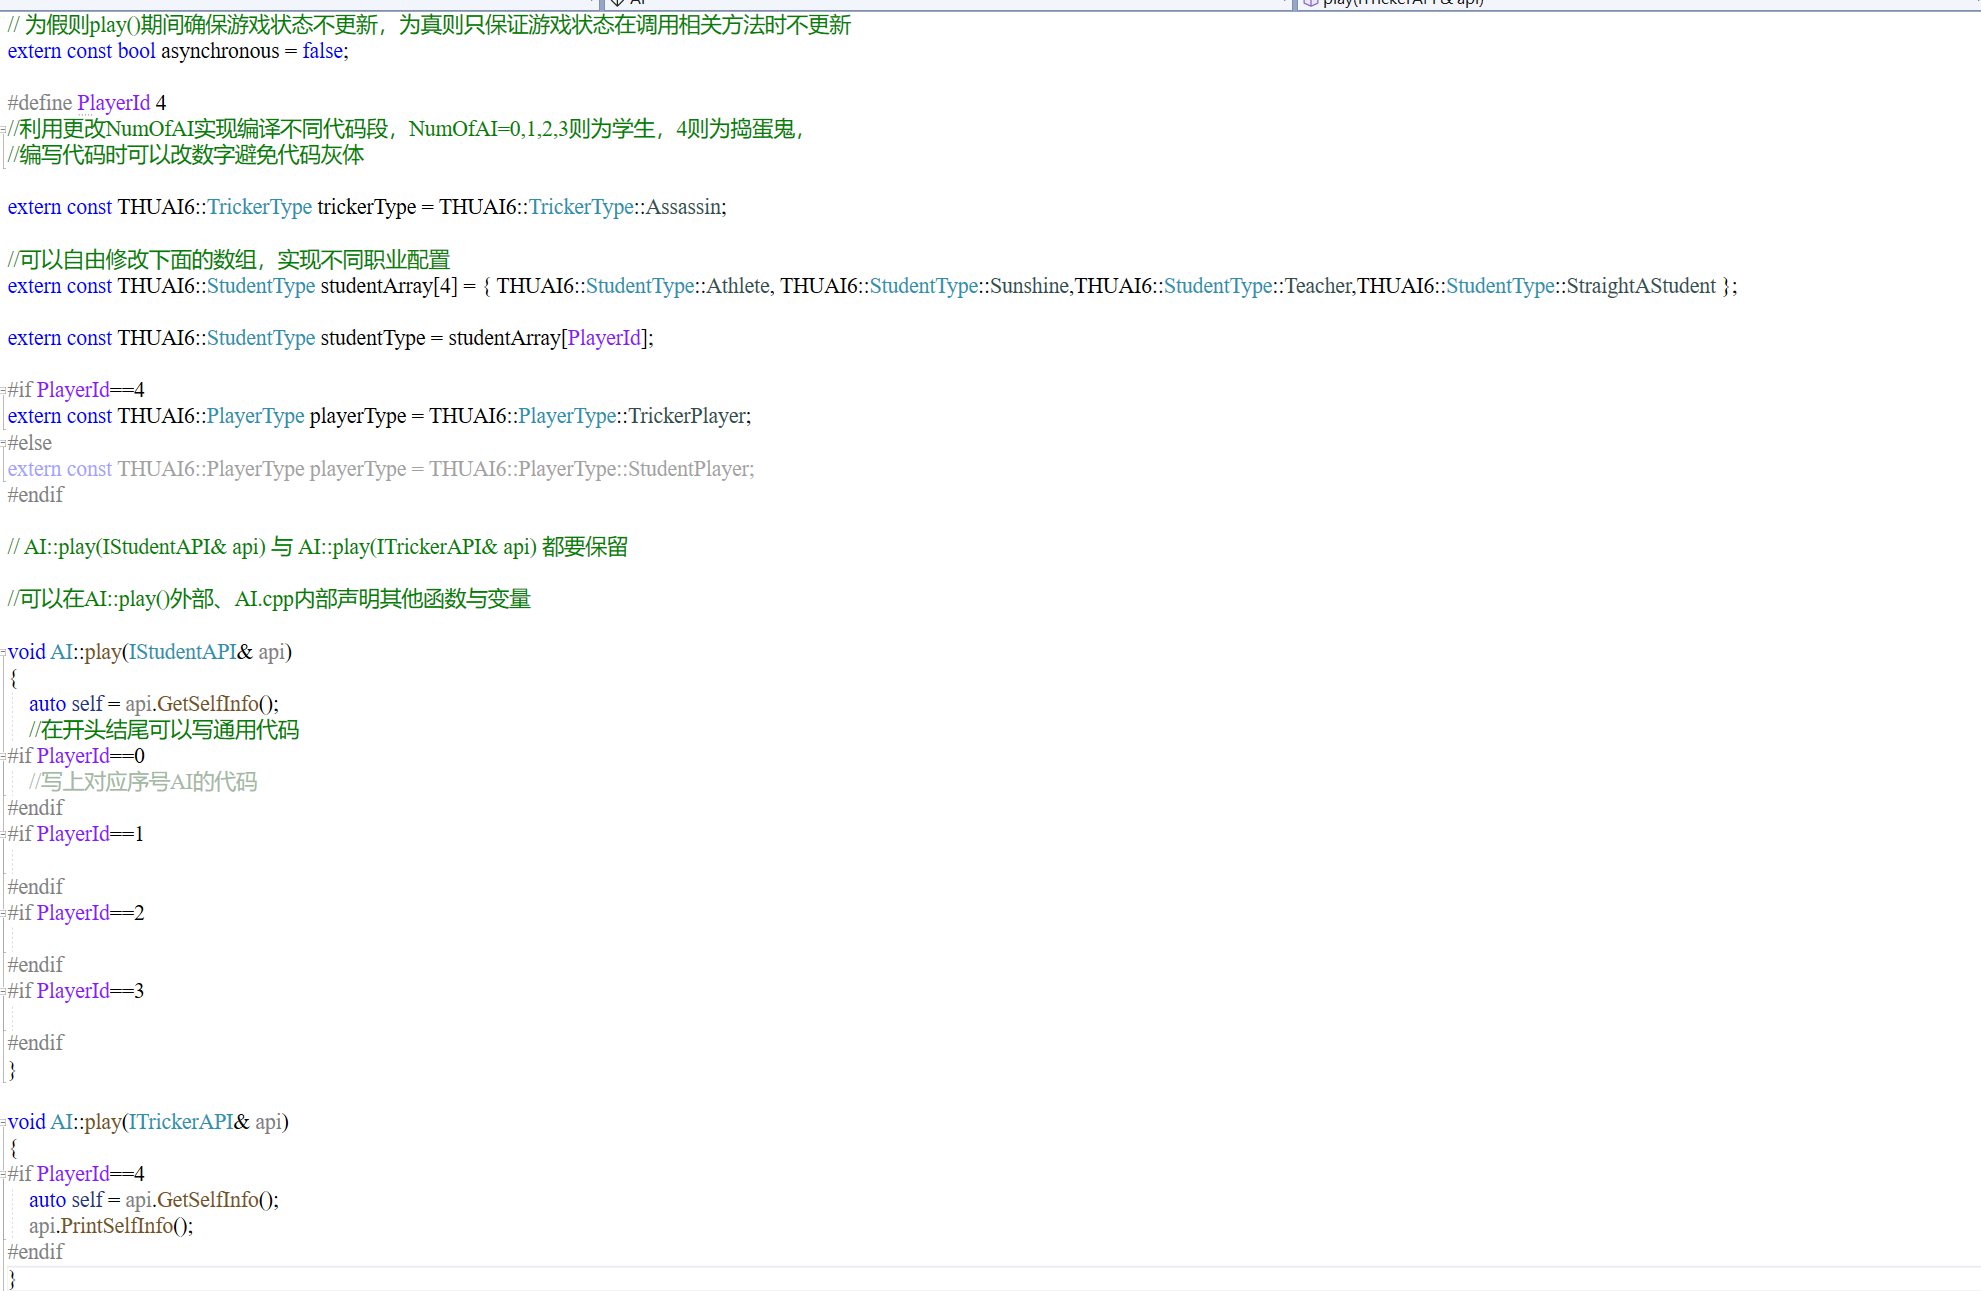
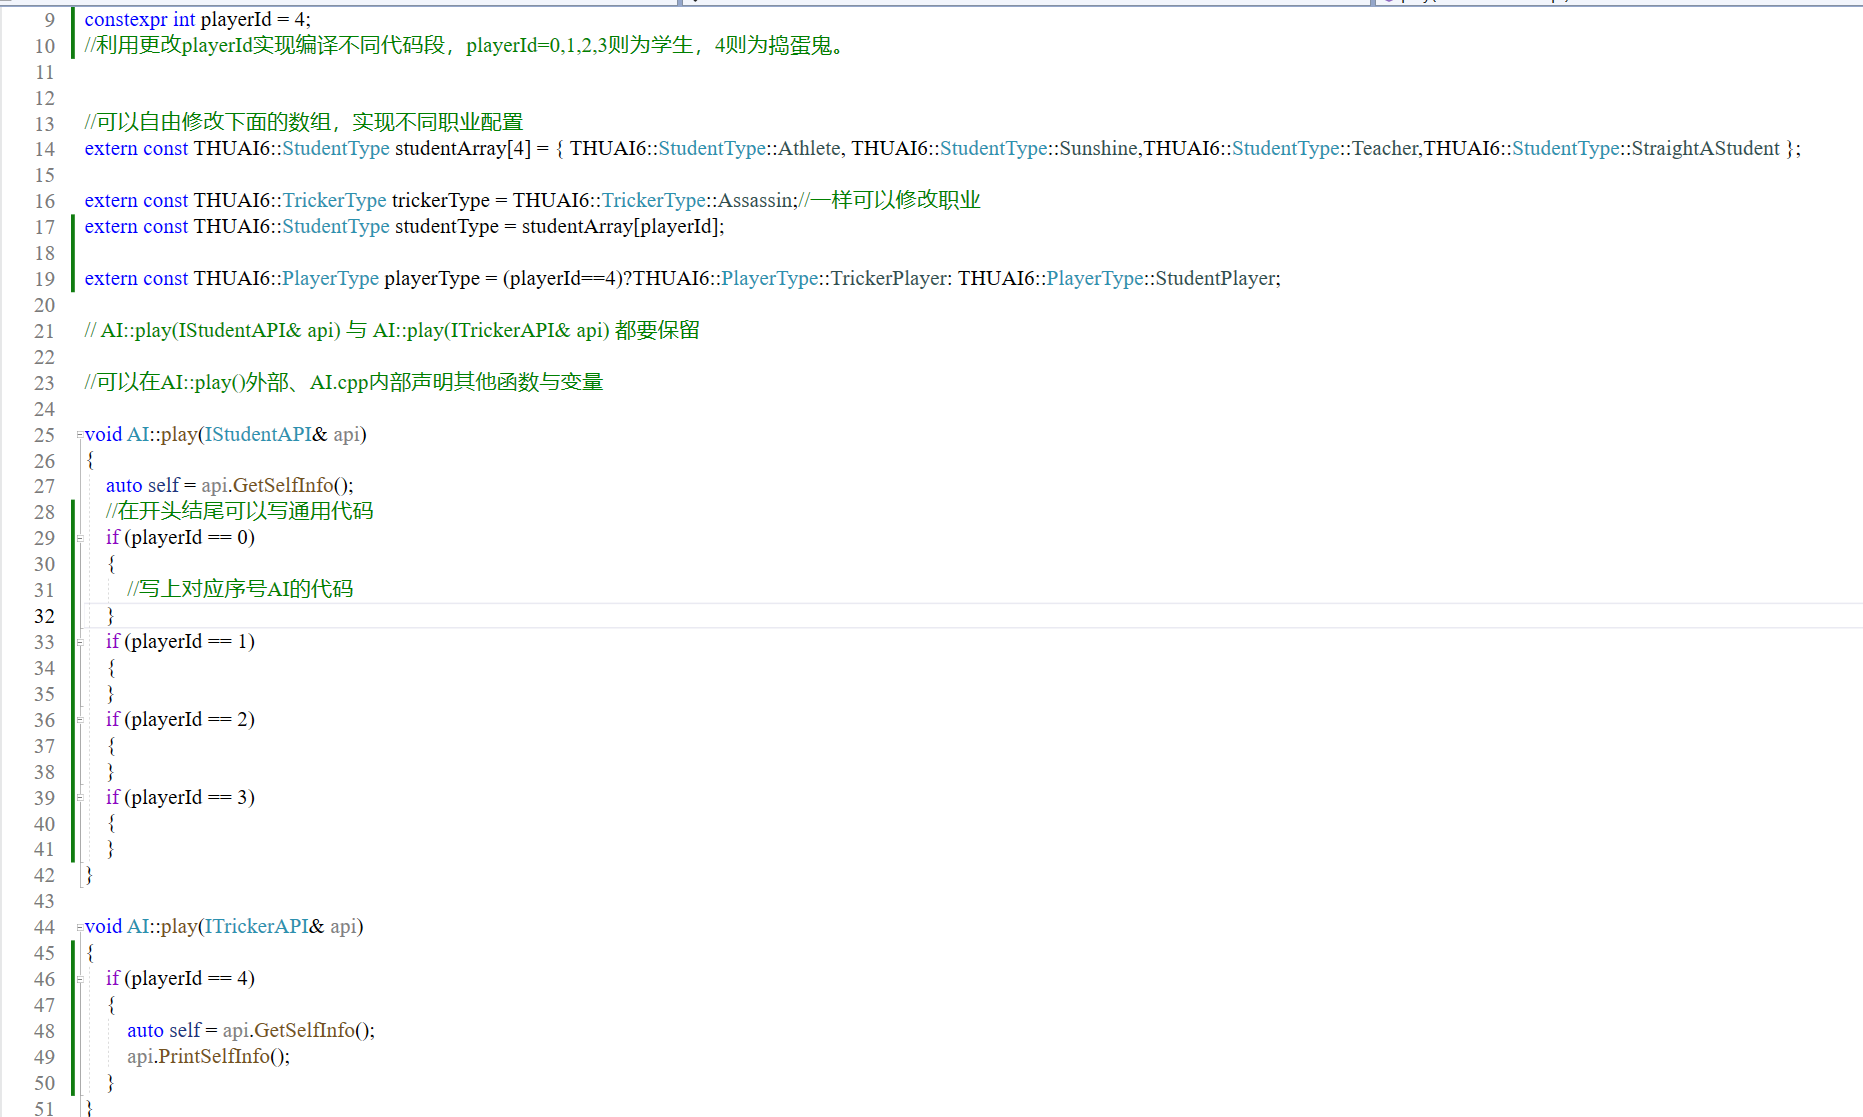
docs: :memo: edit Q&A

Changed region(s): [[0.0, 0.0, 1.0, 1.0]]

diff --git a/Q&A.md b/Q&A.md
@@ -1,20 +1,5 @@
 # Q&A
-
-## Python 
-
-### grpc版本更新失败
-
-Q：运行GeneratePythonProto.cmd报错
-![grpcUpdate](.\resource\Q&A_grpc.png)
-
-A：
-- 可能措施1.
-        首先保证Python版本在3.9及以上
-- 可能措施2. 更换为国内镜像源
-        在终端输入 
-        `pip config set global.index-url https://pypi.tuna.tsinghua.edu.cn/simple`
-- 可能措施3. 更新pip
-        `python -m pip install --upgrade pip` （pip 版本最好为23.1）
+[TOC]
 
 ## 常见简单问题
 
@@ -41,3 +26,29 @@ Q: Mac怎么用？
 A:
 安装Windows虚拟机
 
+## C++ 
+
+Q:CAPI.sln编译不通过
+![std_find_trivial](.\resource\std_find_trivial.jpg)
+
+A:
+出现_std_find_trivial_1的报错就是没更新到VS2022，
+对于VS2022依旧报错_std_find_trivial_1的，先考虑是否版本过旧
+![项目属性](.\resource\项目属性.png)
+确保上图项目属性中平台工具集在V143及以上，C++17标准
+
+## Python 
+
+### grpc版本更新失败
+
+Q：运行GeneratePythonProto.cmd报错
+![grpcUpdate](.\resource\Q&A_grpc.png)
+
+A：
+- 可能措施1.
+        首先保证Python版本在3.9及以上
+- 可能措施2. 更换为国内镜像源
+        在终端输入 
+        `pip config set global.index-url https://pypi.tuna.tsinghua.edu.cn/simple`
+- 可能措施3. 更新pip
+        `python -m pip install --upgrade pip` （pip 版本最好为23.1）

diff --git a/使用文档.md b/使用文档.md
@@ -10,10 +10,10 @@
 - 应当编译2次以上，以生成不同的API.exe，
 - 为了编译不同PlayerID的代码，我们可以
   - 复制若干次AI.cpp
-  - 利用#if、#endif
+  - 利用constexpr
   ![useif](.\resource\howtouseif.png)
-    - 对于图中写法，编译前记得更改PlayerId
-  - 也可以用if,else
+    - 对于图中写法，编译前记得更改playerId
+  - 也可以利用#if、#endif
 - Windows：然后用Visual Studio打开`CAPI\cpp\CAPI.sln`编译，注意使用Debug模式
   - Linux：用`cmake`，对`CAPI\cpp\CMakeLists.txt`进行编译
 - 每次编译后都在\THUAI6-毕业吧少女\win\CAPI\cpp\x64\Debug中将API.exe重命名并在`RunCpp.cmd`中对应修改地址参数,Linux环境类似

diff --git a/logic/GameRules.md b/logic/GameRules.md
@@ -271,7 +271,7 @@ $$
 - 主动技能5 
   - 写答案 WriteAnswers
     - CD：30s
-    - 使用瞬间，对于可互动范围内的一台电机增加这个学习进度
+    - 使用瞬间，对于可互动范围内的一间教室的作业增加这个学习进度
     - 通过修机获得对应得分
 
 #### 开心果

diff --git a/CAPI/Tool_tutorial.md b/CAPI/Tool_tutorial.md
@@ -4,7 +4,7 @@
 
 ## Visual Studio使用说明
 
-比赛**只保证！！！支持**VS2022，选手使用其他版本后果自负。
+比赛**只保证！！！支持**VS2022，选手使用其他版本后果自负（实际上应该不能编译）。
 
 ### 生成模式的设置
 
